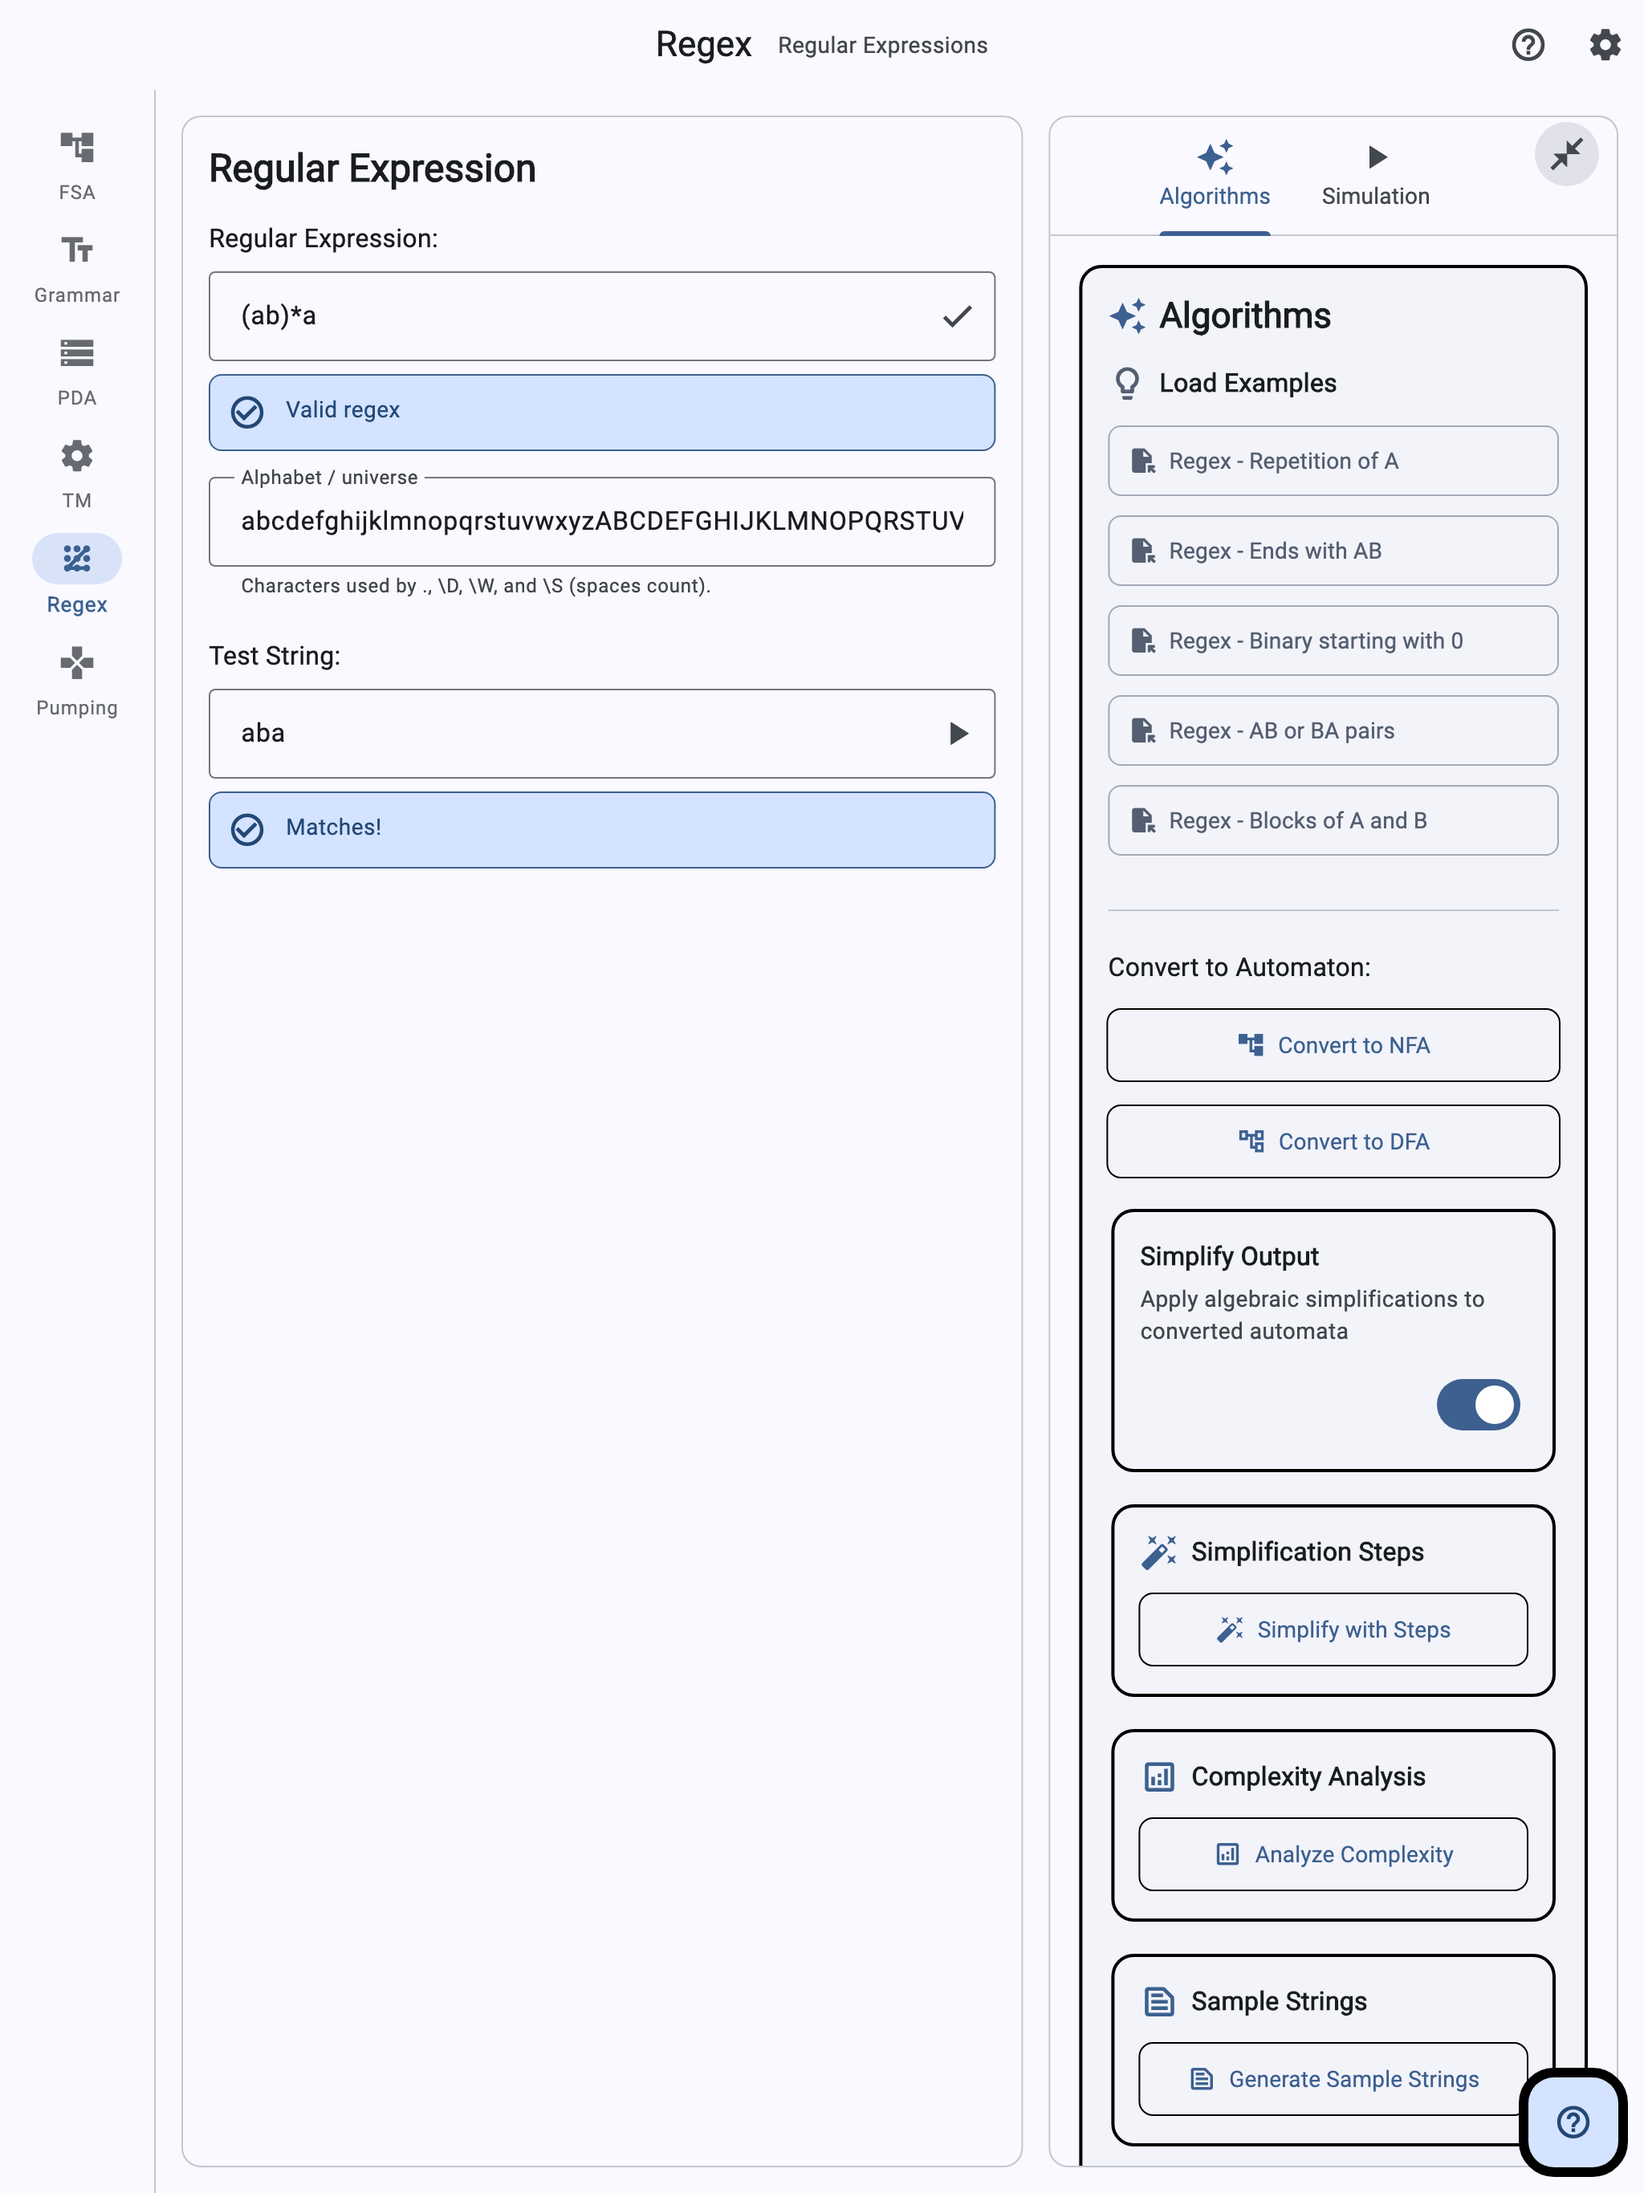
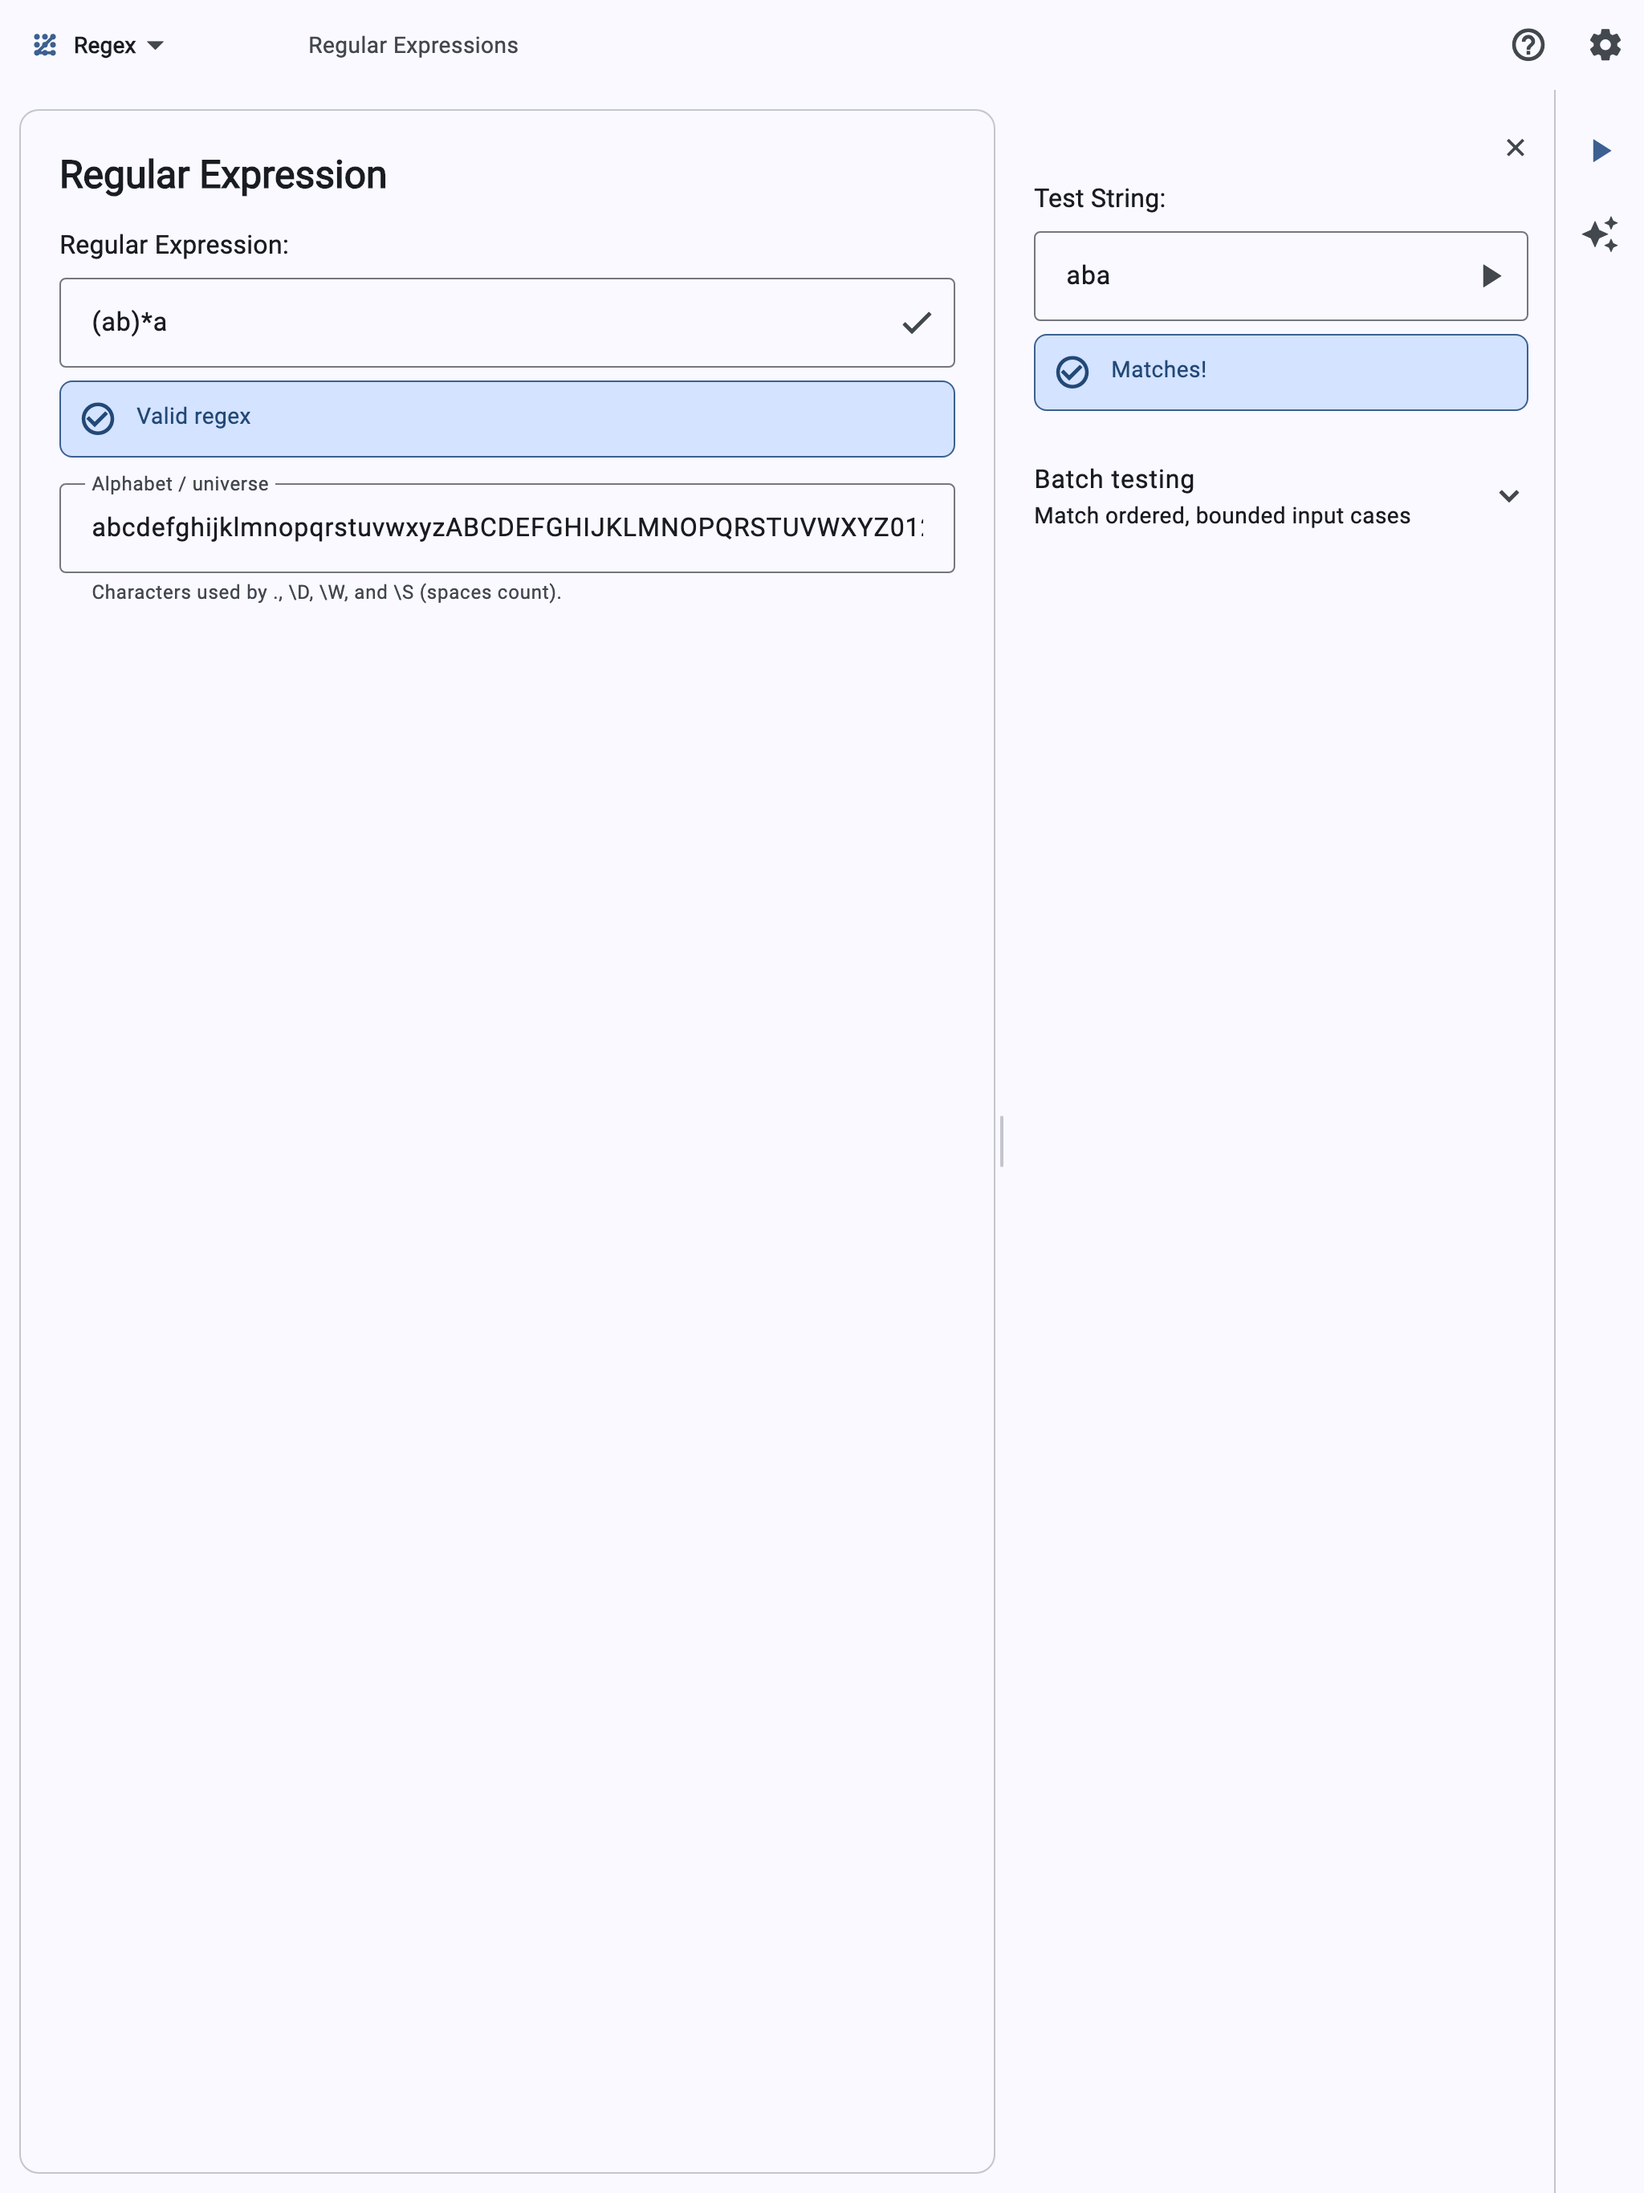
feat: update app store assets and tests
- Update ROADMAP.md with roadmap details for issue #306.
- Enhance Apple integration tests to clear help search field on Escape.
- Refresh app store screenshots for iPad, iPhone, and macOS.
- Refactor `_tapSimulateAction` to support various workspace layouts (wide vs. compact).

diff --git a/test/app_store/app_store_capture_screens.dart b/test/app_store/app_store_capture_screens.dart
@@ -28,6 +28,8 @@ import 'package:turing_lab/presentation/providers/home_navigation_provider.dart'
 import 'package:turing_lab/presentation/providers/pda_editor_provider.dart';
 import 'package:turing_lab/presentation/providers/regex_editor_provider.dart';
 import 'package:turing_lab/presentation/providers/tm_editor_provider.dart';
+import 'package:turing_lab/presentation/widgets/automaton_workspace_scaffold.dart';
+import 'package:turing_lab/presentation/widgets/workspace_dock.dart';
 import 'package:turing_lab/presentation/widgets/workspace_quick_actions_bar.dart';
 
 import '../../tool/app_store/app_store_capture_screen.dart';
@@ -107,7 +109,8 @@ class AppStoreCaptureScreens {
       tester,
       find.text(localizations.accepted),
       stage: 'fsa-simulation',
-      pending: 'the simulation panel never reported '
+      pending:
+          'the simulation panel never reported '
           '"${localizations.accepted}" for input "ba"',
     );
   }
@@ -123,10 +126,7 @@ class AppStoreCaptureScreens {
       leftSide: const ['S'],
       rightSide: const ['a', 'S', 'b'],
     );
-    grammar.addProduction(
-      leftSide: const ['S'],
-      rightSide: const ['a', 'b'],
-    );
+    grammar.addProduction(leftSide: const ['S'], rightSide: const ['a', 'b']);
     await waits.until(
       tester,
       stage: 'grammar-fixture',
@@ -141,19 +141,16 @@ class AppStoreCaptureScreens {
   }
 
   Future<void> _preparePda() async {
-    final pda = await waits.runReal<PDA>(
-      tester,
-      'pda-fixture',
-      () async {
-        final result = await ExamplesAssetDataSource()
-            .loadTypedPdaExample('APD - a^n b^n');
-        final example = result.data;
-        if (example == null) {
-          throw StateError('Failed to load the PDA example: ${result.error}');
-        }
-        return example.payload;
-      },
-    );
+    final pda = await waits.runReal<PDA>(tester, 'pda-fixture', () async {
+      final result = await ExamplesAssetDataSource().loadTypedPdaExample(
+        'APD - a^n b^n',
+      );
+      final example = result.data;
+      if (example == null) {
+        throw StateError('Failed to load the PDA example: ${result.error}');
+      }
+      return example.payload;
+    });
     container.read(pdaEditorProvider.notifier).setPda(pda);
     await waits.until(
       tester,
@@ -169,19 +166,16 @@ class AppStoreCaptureScreens {
   }
 
   Future<void> _prepareTm() async {
-    final tm = await waits.runReal<TM>(
-      tester,
-      'tm-fixture',
-      () async {
-        final result = await ExamplesAssetDataSource()
-            .loadTypedTmExample('MT - Incremento binário');
-        final example = result.data;
-        if (example == null) {
-          throw StateError('Failed to load the TM example: ${result.error}');
-        }
-        return example.payload;
-      },
-    );
+    final tm = await waits.runReal<TM>(tester, 'tm-fixture', () async {
+      final result = await ExamplesAssetDataSource().loadTypedTmExample(
+        'MT - Incremento binário',
+      );
+      final example = result.data;
+      if (example == null) {
+        throw StateError('Failed to load the TM example: ${result.error}');
+      }
+      return example.payload;
+    });
     container.read(tmEditorProvider.notifier).setTm(tm);
     await waits.until(
       tester,
@@ -221,10 +215,12 @@ class AppStoreCaptureScreens {
       tester,
       find.text(localizations.validRegex),
       stage: 'regex-validation',
-      pending: 'the validation banner never showed '
+      pending:
+          'the validation banner never showed '
           '"${localizations.validRegex}"',
     );
 
+    await _tapSimulateAction();
     final testField = find.byKey(const ValueKey('regex_test_input_field'));
     await waits.untilVisible(
       tester,
@@ -275,7 +271,7 @@ class AppStoreCaptureScreens {
 
   /// Taps the simulation shortcut in the workspace app bar.
   Future<void> _tapSimulateAction() async {
-    final finder = find.descendant(
+    final directAction = find.descendant(
       of: find.byType(WorkspaceQuickActionsBar),
       matching: find.byWidgetPredicate(
         (widget) =>
@@ -285,13 +281,55 @@ class AppStoreCaptureScreens {
             widget.onPressed != null,
       ),
     );
-    expect(
-      finder,
-      findsOneWidget,
-      reason: 'Expected one enabled simulation shortcut in the app bar',
+    if (directAction.evaluate().isNotEmpty) {
+      expect(
+        directAction,
+        findsOneWidget,
+        reason: 'Expected one enabled simulation shortcut in the app bar',
+      );
+      await tester.ensureVisible(directAction);
+      await tester.tap(directAction);
+      await waits.quiesce(tester);
+      return;
+    }
+
+    final overflow = find.byKey(
+      const ValueKey('workspace-quick-actions-overflow'),
     );
-    await tester.ensureVisible(finder);
-    await tester.tap(finder);
+    if (overflow.evaluate().isEmpty) {
+      final dockAction = find.byKey(
+        WorkspaceDock.railButtonKey(
+          AutomatonWorkspaceScaffold.simulationPanelId,
+        ),
+      );
+      expect(
+        dockAction,
+        findsOneWidget,
+        reason: 'Expected a simulation shortcut in the wide workspace dock',
+      );
+      await tester.tap(dockAction);
+      await waits.quiesce(tester);
+      return;
+    }
+
+    expect(
+      overflow,
+      findsOneWidget,
+      reason: 'Expected a direct simulation shortcut or compact overflow',
+    );
+    await tester.tap(overflow);
+    await waits.quiesce(tester);
+
+    final menuAction = find.ancestor(
+      of: find.byIcon(Icons.play_arrow),
+      matching: find.byType(PopupMenuItem<int>),
+    );
+    expect(
+      menuAction,
+      findsOneWidget,
+      reason: 'Expected one simulation action in the compact overflow',
+    );
+    await tester.tap(menuAction);
     await waits.quiesce(tester);
   }
 }

diff --git a/integration_test/apple_release_user_journeys_test.dart b/integration_test/apple_release_user_journeys_test.dart
@@ -221,6 +221,20 @@ void main() {
             );
 
             await tester.sendKeyEvent(LogicalKeyboardKey.escape);
+            await harness.waitUntil(
+              () =>
+                  tester
+                      .widget<TextField>(
+                        find.byKey(const ValueKey('help-search-field')),
+                      )
+                      .controller
+                      ?.text
+                      .isEmpty ??
+                  false,
+              description: 'the active help query to clear on Escape',
+            );
+
+            await tester.sendKeyEvent(LogicalKeyboardKey.escape);
             await harness.waitUntilGone(
               find.byKey(const ValueKey('help-search-field')),
               description: 'the help search field to close on Escape',

diff --git a/ROADMAP.md b/ROADMAP.md
@@ -5,6 +5,12 @@ It is not a commitment to specific dates. `V1_SCOPE.md` remains authoritative
 for the current release scope, while this document records what is planned,
 deferred, or explicitly out of scope.
 
+GitHub issue #306 is the sole live implementation Epic. The machine-readable
+phase and dependency map for its children is
+[`docs/issue-roadmap.json`](docs/issue-roadmap.json). Validate the map locally
+with `python3 tool/check_issue_roadmap.py --github` before changing phases or
+adding work to the Epic.
+
 ## Current Baseline: v1.0
 
 Turing Lab v1.0 focuses on a stable educational core:
